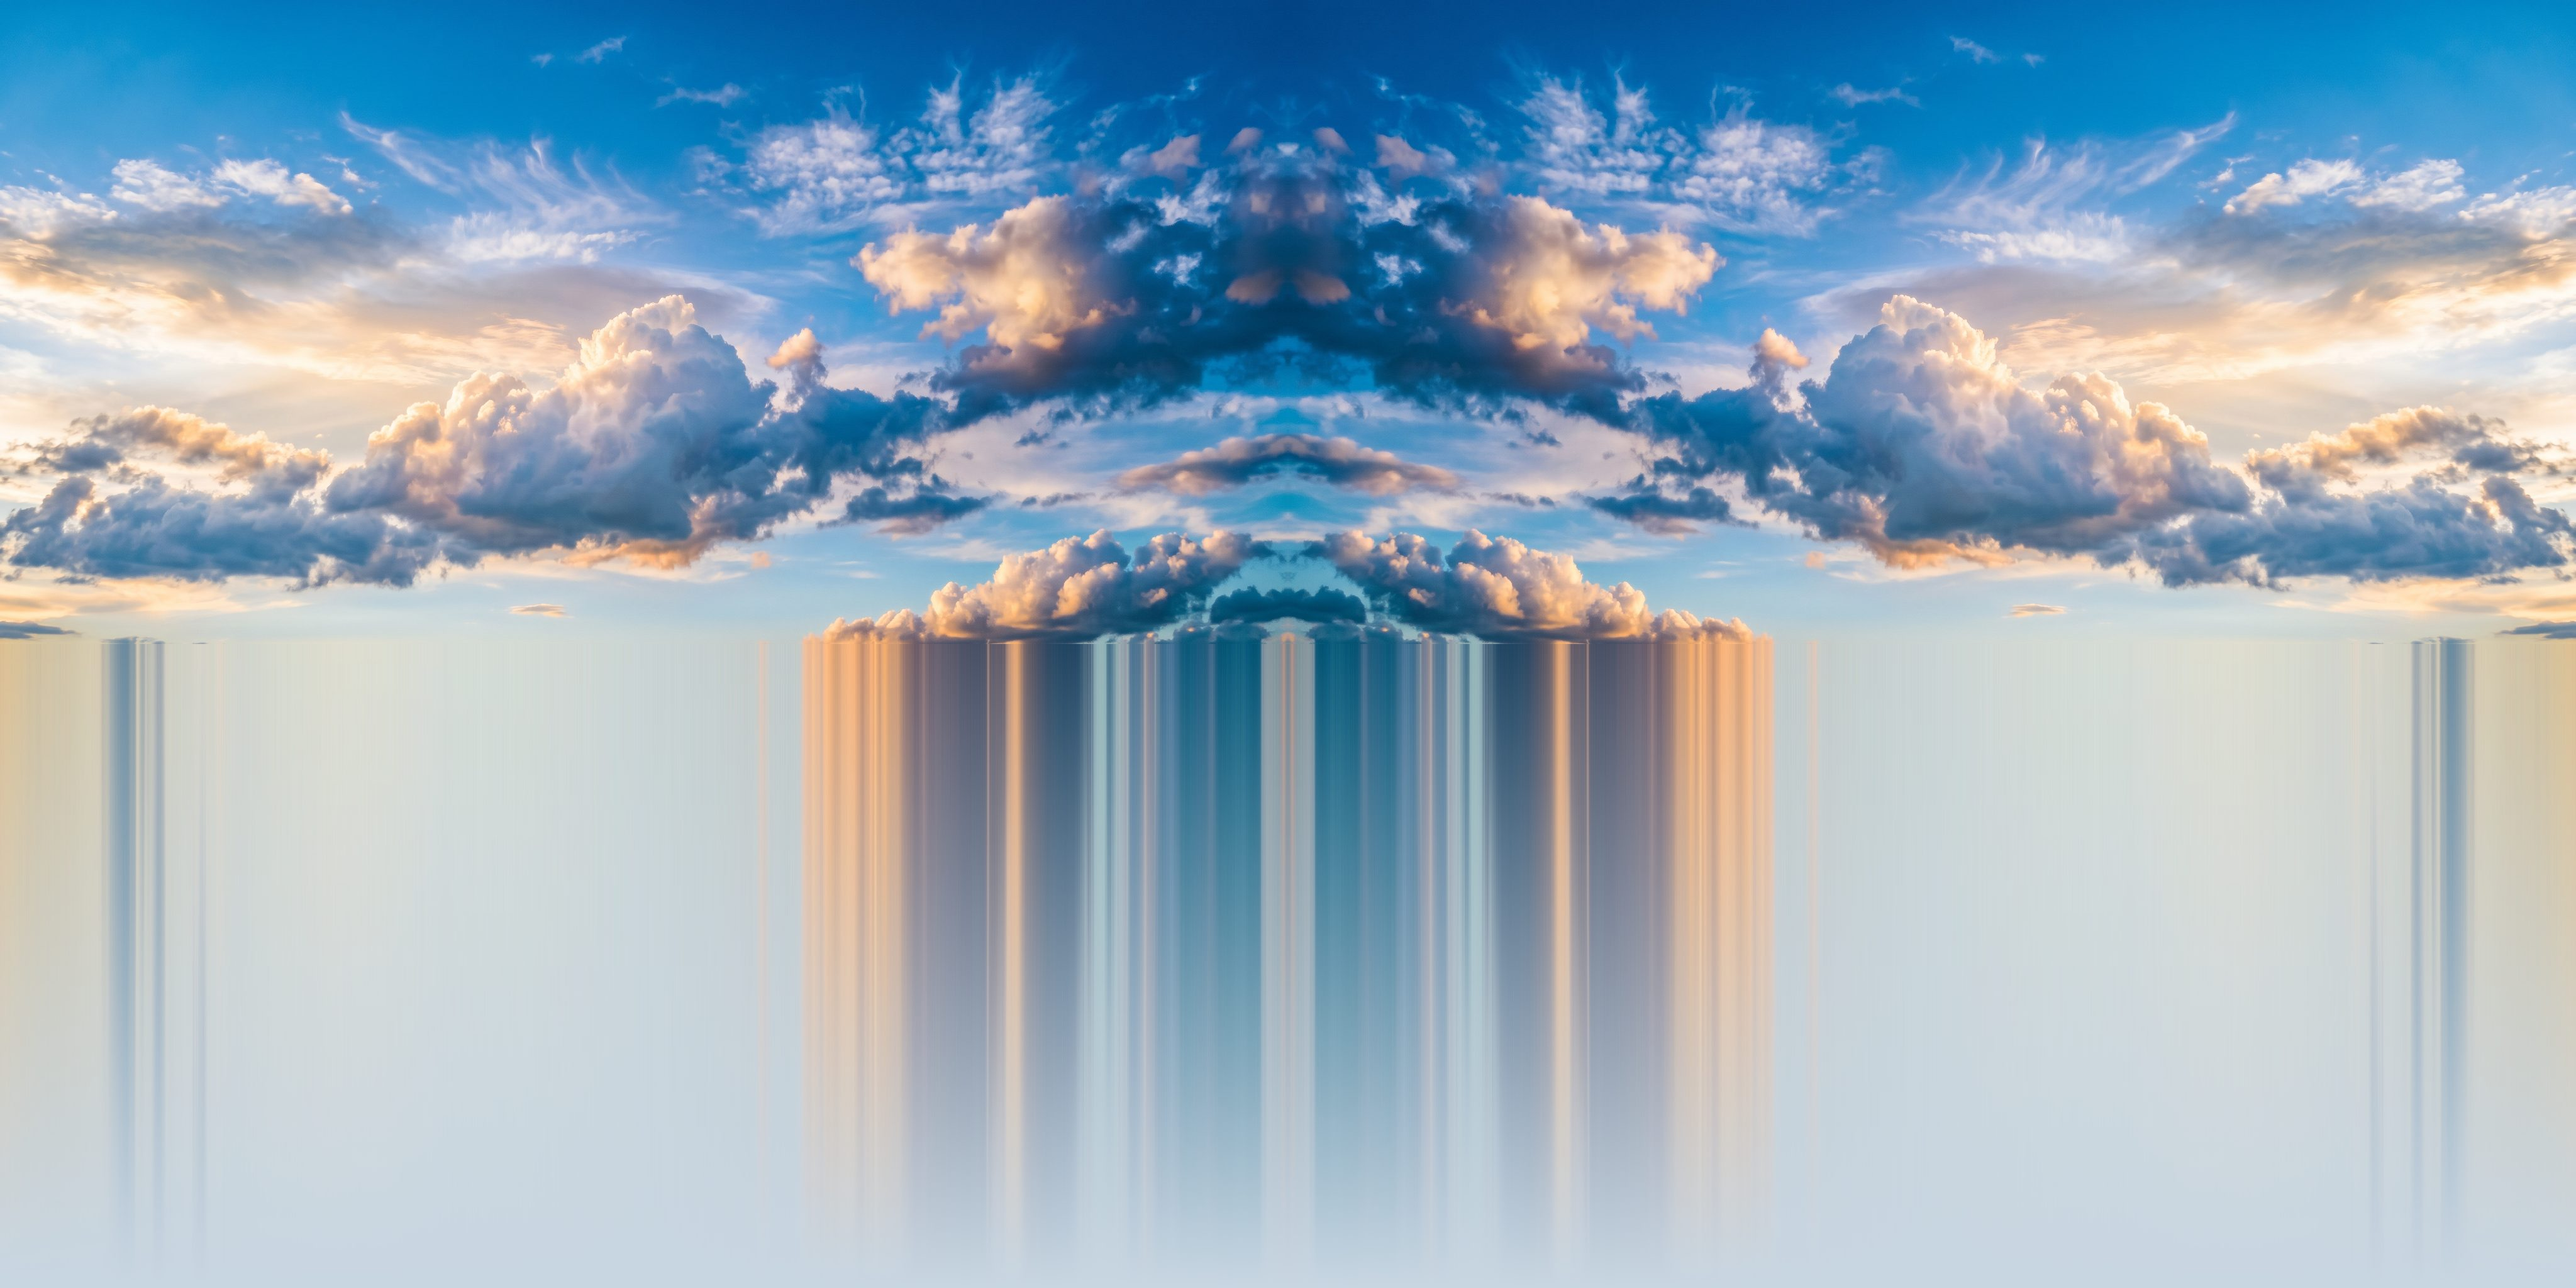
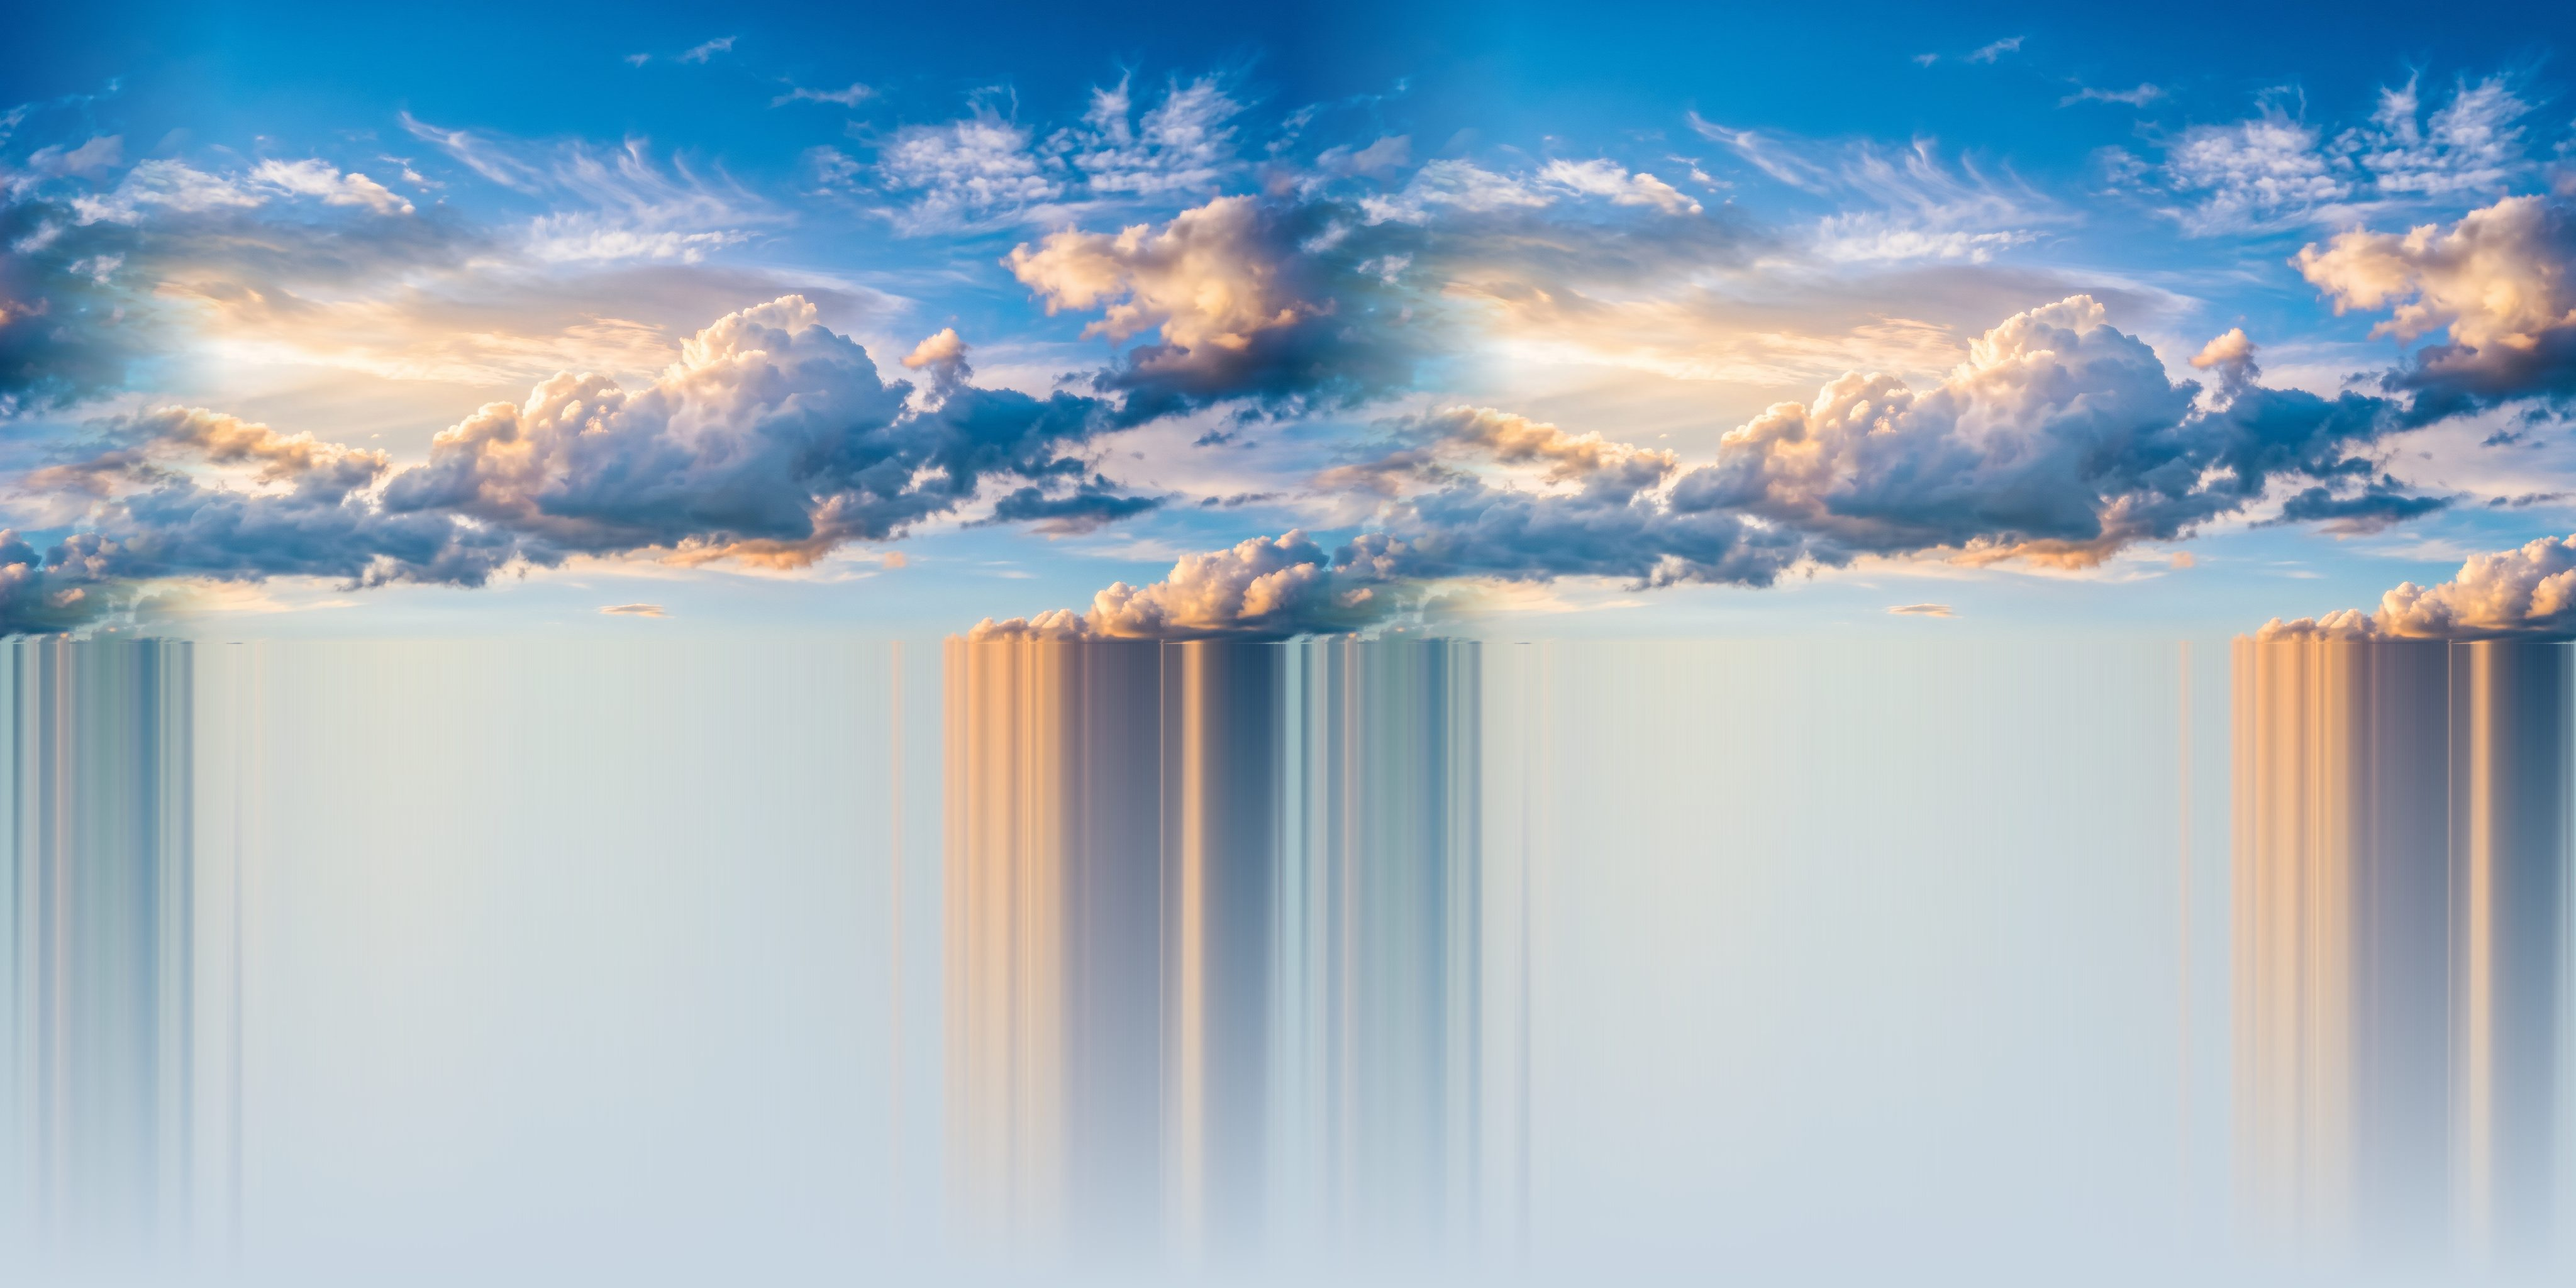
Phone fixes from QA: the assistant's window fits the screen, the online count goes under the name; the sky's seam is blended
On a 390 px phone the assistants' row of links stretched their window to
514 px, pushing Close and Ask off screen; the online count still ran under
the round buttons beside the name. The sky's mirrored halves met in an odd
symmetric shape seen from the west; it now repeats with a soft blend.

diff --git a/client/src/npcchat.css b/client/src/npcchat.css
@@ -5,7 +5,7 @@
   padding: 16px; background: rgba(20, 20, 20, 0.45);
 }
 #npc-chat[hidden] { display: none; }
-.npc-card { width: min(460px, 100%); max-height: calc(100vh - 32px); display: flex; flex-direction: column; }
+.npc-card { min-width: 0; width: min(460px, 100%); max-height: calc(100vh - 32px); display: flex; flex-direction: column; }
 .npc-head { display: flex; align-items: center; justify-content: space-between; gap: 8px; }
 .npc-head h2 { margin: 0; font-size: 1.1rem; }
 .npc-close { min-width: 44px; min-height: 44px; border: 0; background: none; font-size: 1.1rem; cursor: pointer; }
@@ -25,7 +25,7 @@
 /* Phones (81a): the window fits above the keyboard (--vvh, main.ts), the
    conversation gets the room, and the page links shrink to one scrolling row. */
 @media (max-width: 700px), (pointer: coarse) {
-  #npc-chat { padding: 0; place-items: start stretch; top: var(--vvtop, 0); bottom: auto; height: var(--vvh, 100dvh); }
+  #npc-chat { padding: 0; place-items: start stretch; grid-template-columns: minmax(0, 1fr); top: var(--vvtop, 0); bottom: auto; height: var(--vvh, 100dvh); }
   .npc-card { width: 100%; height: 100%; max-height: none; border-radius: 0; padding: 10px 12px; }
   .npc-head h2 { font-size: 1rem; }
   .npc-log { max-height: none; min-height: 60px; }

diff --git a/client/src/style.css b/client/src/style.css
@@ -59,6 +59,8 @@ button, [role="button"], .use-badge, .player-label, .door-label, canvas {
   /* One line for the name: a long room name shouldn't push the help under the room's window. */
   #hud-name { max-width: 100%; overflow: hidden; text-overflow: ellipsis; white-space: nowrap; vertical-align: top; }
   #hud-online { max-width: 100%; overflow: hidden; text-overflow: ellipsis; white-space: nowrap; vertical-align: top; }
+  /* Under the name, not beside it: side by side they ran under the round buttons. */
+  #hud-online:not([hidden]) { display: table; }
 }
 /* A room's window open (plan 83): everything else steps aside, so the window
    has the screen (on a phone, the pad and buttons too). Closed, the HUD's
